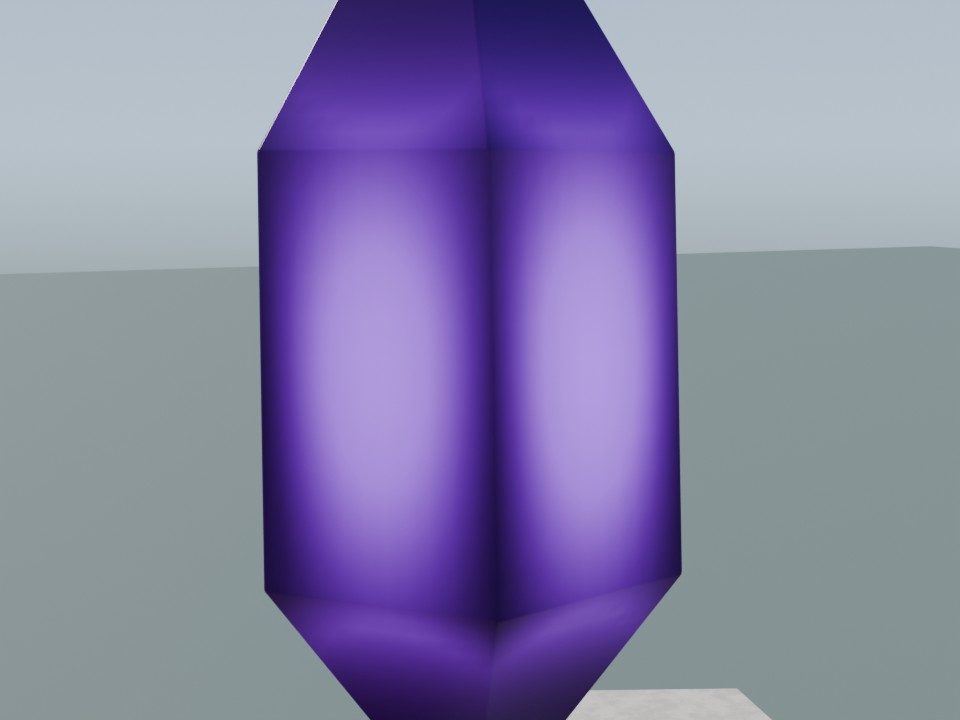
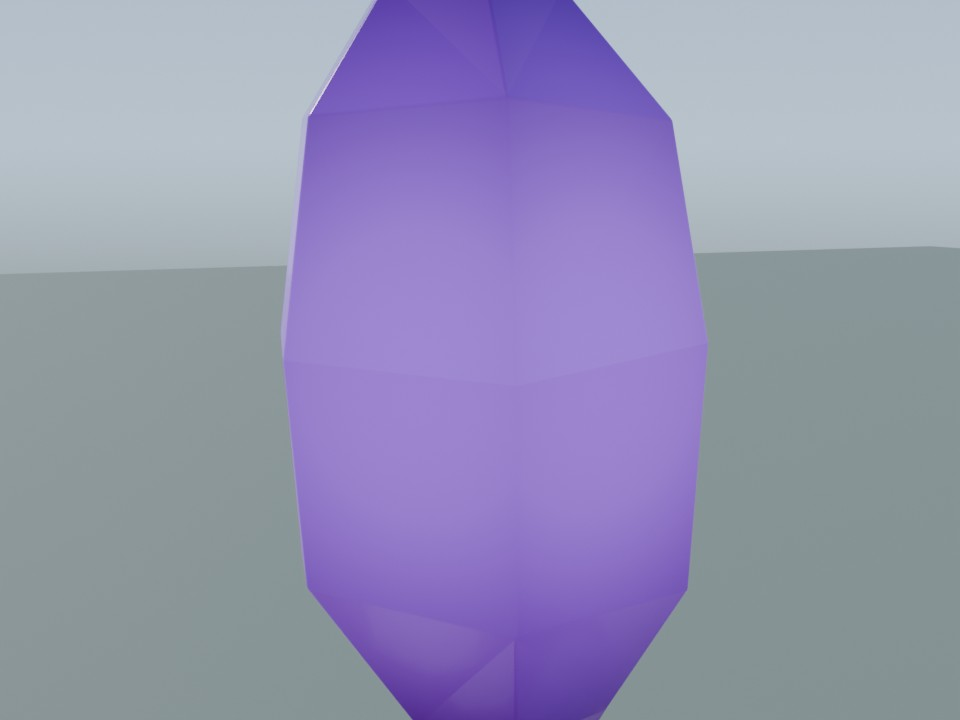
Unify seed centre-distance glow and tighten fractured menhir cradle

Changed region(s): [[0.25, 0.0, 0.8125, 1.0]]

diff --git a/assets/crystals/energy_core_a/build.py b/assets/crystals/energy_core_a/build.py
@@ -21,16 +21,20 @@ def seed_material():
     output = nodes.new("ShaderNodeOutputMaterial")
     links.new(bsdf.outputs["BSDF"], output.inputs["Surface"])
     bsdf.inputs["IOR"].default_value = 1.6
-    bsdf.inputs["Roughness"].default_value = 0.28
-    bsdf.inputs["Coat Weight"].default_value = 0.08
-    bsdf.inputs["Coat Roughness"].default_value = 0.12
-    bsdf.inputs["Specular IOR Level"].default_value = 0.12
+    bsdf.inputs["Roughness"].default_value = 0.23
+    bsdf.inputs["Coat Weight"].default_value = 0.3
+    bsdf.inputs["Coat Roughness"].default_value = 0.08
+    bsdf.inputs["Specular IOR Level"].default_value = 0.35
     heat = nodes.new("ShaderNodeAttribute")
-    heat.attribute_name = "core_heat"
+    heat.attribute_name = "core_distance"
+    inward = nodes.new("ShaderNodeMath")
+    inward.operation = "SUBTRACT"
+    inward.inputs[0].default_value = 1
+    links.new(heat.outputs["Fac"], inward.inputs[1])
     body = nodes.new("ShaderNodeValToRGB")
     body.color_ramp.elements[0].color = (0.05, 0.004, 0.09, 1)
     body.color_ramp.elements[1].color = (0.11, 0.02, 0.27, 1)
-    links.new(heat.outputs["Fac"], body.inputs["Fac"])
+    links.new(inward.outputs[0], body.inputs["Fac"])
     links.new(body.outputs["Color"], bsdf.inputs["Base Color"])
     glow = nodes.new("ShaderNodeValToRGB")
     glow.color_ramp.elements[0].color = (0.045, 0.002, 0.08, 1)
@@ -38,13 +42,13 @@ def seed_material():
     glow.color_ramp.elements[1].color = (0.40, 0.15, 0.85, 1)
     mid = glow.color_ramp.elements.new(0.25)
     mid.color = (0.20, 0.025, 0.48, 1)
-    links.new(heat.outputs["Fac"], glow.inputs["Fac"])
+    links.new(inward.outputs[0], glow.inputs["Fac"])
     links.new(glow.outputs["Color"], bsdf.inputs["Emission Color"])
     gain = nodes.new("ShaderNodeMath")
     gain.operation = "MULTIPLY_ADD"
-    gain.inputs[1].default_value = 1.65
+    gain.inputs[1].default_value = 1.2
     gain.inputs[2].default_value = 0.12
-    links.new(heat.outputs["Fac"], gain.inputs[0])
+    links.new(inward.outputs[0], gain.inputs[0])
     links.new(gain.outputs[0], bsdf.inputs["Emission Strength"])
     return mat
 
@@ -53,18 +57,26 @@ def seed(rng, mat):
     radius, height = 3.45, 14.75
     sides = 6
     twist = 0.22
-    profile = [rng.uniform(0.94, 1.06) for _ in range(sides)]
-    rings = [(0.0, 0.0), (0.13, 0.48), (0.30, 1.0),
-             (0.71, 0.96), (0.89, 0.48), (1.0, 0.0)]
+    profile = [rng.uniform(0.82, 1.18) for _ in range(sides)]
+    rings = [(0.0, 0.0), (0.12, 0.52), (0.28, 0.98),
+             (0.52, 1.06), (0.74, 0.90), (0.88, 0.46), (1.0, 0.0)]
+    tip_shift = Vector((0.20, -0.16, 0)) * radius
     bm = bmesh.new()
     loops = []
     for t, width in rings:
         if width == 0:
-            loops.append([bm.verts.new((0.18 * t, -0.12 * t, height * t))])
+            loops.append([bm.verts.new(Vector((0, 0, height * t)) + tip_shift * (2 * t - 1))])
         else:
-            loops.append([bm.verts.new((math.cos(twist + math.tau * s / sides) * radius * width * profile[s] + 0.18 * t,
-                                        math.sin(twist + math.tau * s / sides) * radius * width * profile[s] - 0.12 * t,
-                                        height * t)) for s in range(sides)])
+            loop = []
+            for s in range(sides):
+                angle = twist + math.tau * s / sides
+                r = radius * width * profile[s]
+                if t in (0.12, 0.88):
+                    r *= rng.uniform(0.8, 1.2)
+                z = height * (t + rng.uniform(-0.018, 0.018))
+                loop.append(bm.verts.new(Vector((math.cos(angle) * r, math.sin(angle) * r, z))
+                                         + tip_shift * ((t - 0.5) * 2) ** 3 * 0.6))
+            loops.append(loop)
     for lower, upper in zip(loops, loops[1:]):
         for s in range(sides):
             n = (s + 1) % sides
@@ -74,18 +86,16 @@ def seed(rng, mat):
                 bm.faces.new((lower[s], lower[n], upper[0]))
             else:
                 bm.faces.new((lower[s], lower[n], upper[n], upper[s]))
-    bmesh.ops.subdivide_edges(bm, edges=bm.edges[:], cuts=10, use_grid_fill=True)
+    bmesh.ops.triangulate(bm, faces=bm.faces[:])
+    bmesh.ops.subdivide_edges(bm, edges=bm.edges[:], cuts=16, use_grid_fill=True)
     bmesh.ops.recalc_face_normals(bm, faces=bm.faces)
     mesh = bpy.data.meshes.new("Seed planar facets")
     bm.to_mesh(mesh)
     bm.free()
-    heat = mesh.attributes.new("core_heat", "FLOAT", "POINT")
+    heat = mesh.attributes.new("core_distance", "FLOAT", "POINT")
+    centre = Vector((0, 0, height * 0.5))
     for v, value in zip(mesh.vertices, heat.data):
-        t = v.co.z / height
-        rho = Vector((v.co.x - 0.18 * t, v.co.y + 0.12 * t)).length / radius
-        inward = max(0, min(1, (1 - rho) / 0.20))
-        axial = math.sin(math.pi * t) ** 4
-        value.value = inward ** 1.2 * axial
+        value.value = min(1, (v.co - centre).length / (height * 0.5))
     obj = bpy.data.objects.new("Levitating violet seed", mesh)
     obj.data.materials.append(mat)
     obj.location = (0, 0, 4.55)
@@ -98,11 +108,22 @@ def seed(rng, mat):
 
 def limestone_block(name, rng, size, location, rotation, mat):
     bm = bmesh.new()
-    bmesh.ops.create_cube(bm, size=1)
-    for v in bm.verts:
-        v.co = Vector(tuple(a * b for a, b in zip(v.co, size)))
-        v.co.x += v.co.z * rng.uniform(-0.18, 0.18)
-        v.co.y += v.co.z * rng.uniform(-0.16, 0.16)
+    loops = []
+    profile = [rng.uniform(0.8, 1.15) for _ in range(7)]
+    for z, scale in [(-0.5, 0.95), (0.03, 1.05), (0.43, 0.74)]:
+        loop = []
+        for s in range(7):
+            angle = math.tau * s / 7
+            loop.append(bm.verts.new((math.cos(angle) * size[0] * 0.5 * scale * profile[s],
+                                      math.sin(angle) * size[1] * 0.5 * scale * profile[s],
+                                      (z + rng.uniform(-0.07, 0.07)) * size[2])))
+        loops.append(loop)
+    bm.faces.new(list(reversed(loops[0])))
+    bm.faces.new(loops[-1])
+    for lower, upper in zip(loops, loops[1:]):
+        for s in range(7):
+            n = (s + 1) % 7
+            bm.faces.new((lower[s], lower[n], upper[n], upper[s]))
     planes = [(Vector((rng.uniform(-0.4, 0.4), rng.uniform(-0.4, 0.4), 1)),
                Vector((0, 0, size[2] * rng.uniform(0.20, 0.38)))),
               (Vector((1, rng.uniform(-0.6, 0.6), rng.uniform(-0.3, 0.3))),
@@ -173,22 +194,32 @@ def build():
     weather.name = "Cradle | weathered breaks"
     moss = vrmat.get("mossy_rock").copy()
     soil = vrmat.get("forest_soil").copy()
-    stones = [((-6.0, -4.6, 1.7), (6.3, 4.7, 4.9), (0.08, -0.18, -0.5)),
-              ((5.4, -5.5, 1.75), (5.5, 5.0, 5.6), (-0.13, 0.12, 0.55)),
-              ((5.6, 5.5, 1.9), (5.7, 5.0, 5.7), (0.10, 0.15, -0.35)),
-              ((-5.5, 5.4, 1.6), (6.0, 5.2, 4.5), (-0.08, -0.14, 0.45))]
+    mound("Shared earth bed", rng, 7.4, 0.075, (0, 0, 0.12), soil)
+    mound("Shared moss turf", rng, 6.8, 0.065, (0.08, 0.1, 0.26), moss)
+    stones = []
+    for i in range(5):
+        angle = math.tau * i / 5 + 0.3
+        distance = 4.5 + rng.uniform(-0.2, 0.2)
+        height = rng.uniform(4.6, 5.5)
+        stones.append(((math.cos(angle) * distance, math.sin(angle) * distance, height * 0.43),
+                       (rng.uniform(3.3, 4.2), rng.uniform(2.7, 3.4), height),
+                       (0.12, -0.28, angle)))
     for i, (location, size, rotation) in enumerate(stones):
         limestone_block(f"Cradle stone {i}", rng, size, location, rotation,
                         weather if i == 3 else limestone)
-        mound(f"Stone earth socket {i}", rng, 3.15, 0.16, (*location[:2], 0.12), soil)
+        mound(f"Stone earth socket {i}", rng, 2.1, 0.16, (*location[:2], 0.30), soil)
         mound(f"Moss at cradle foot {i}", rng, 1.2, 0.30,
               (location[0] * 1.1, location[1] * 1.1, 0.28), moss)
         for j in range(3):
             angle = rng.uniform(0, math.tau)
             radius = rng.uniform(0.25, 0.65)
             mound(f"Limestone debris {i}_{j}", rng, radius, 0.65,
-                  (location[0] + math.cos(angle) * 3.2, location[1] + math.sin(angle) * 3.2, radius * 0.3),
+                  (location[0] + math.cos(angle) * 2.0, location[1] + math.sin(angle) * 2.0, 0.35 + radius * 0.3),
                   weather)
-    seed(rng, seed_material())
+    crystal = seed(rng, seed_material())
+    bpy.context.view_layer.update()
+    stones = [obj for obj in vrlib.source_objects() if obj.name.startswith("Cradle stone")]
+    _, tops = vrlib.world_bounds(stones)
+    crystal.location.z = tops.z + 0.22
     bpy.context.view_layer.update()
     trim_ground()
